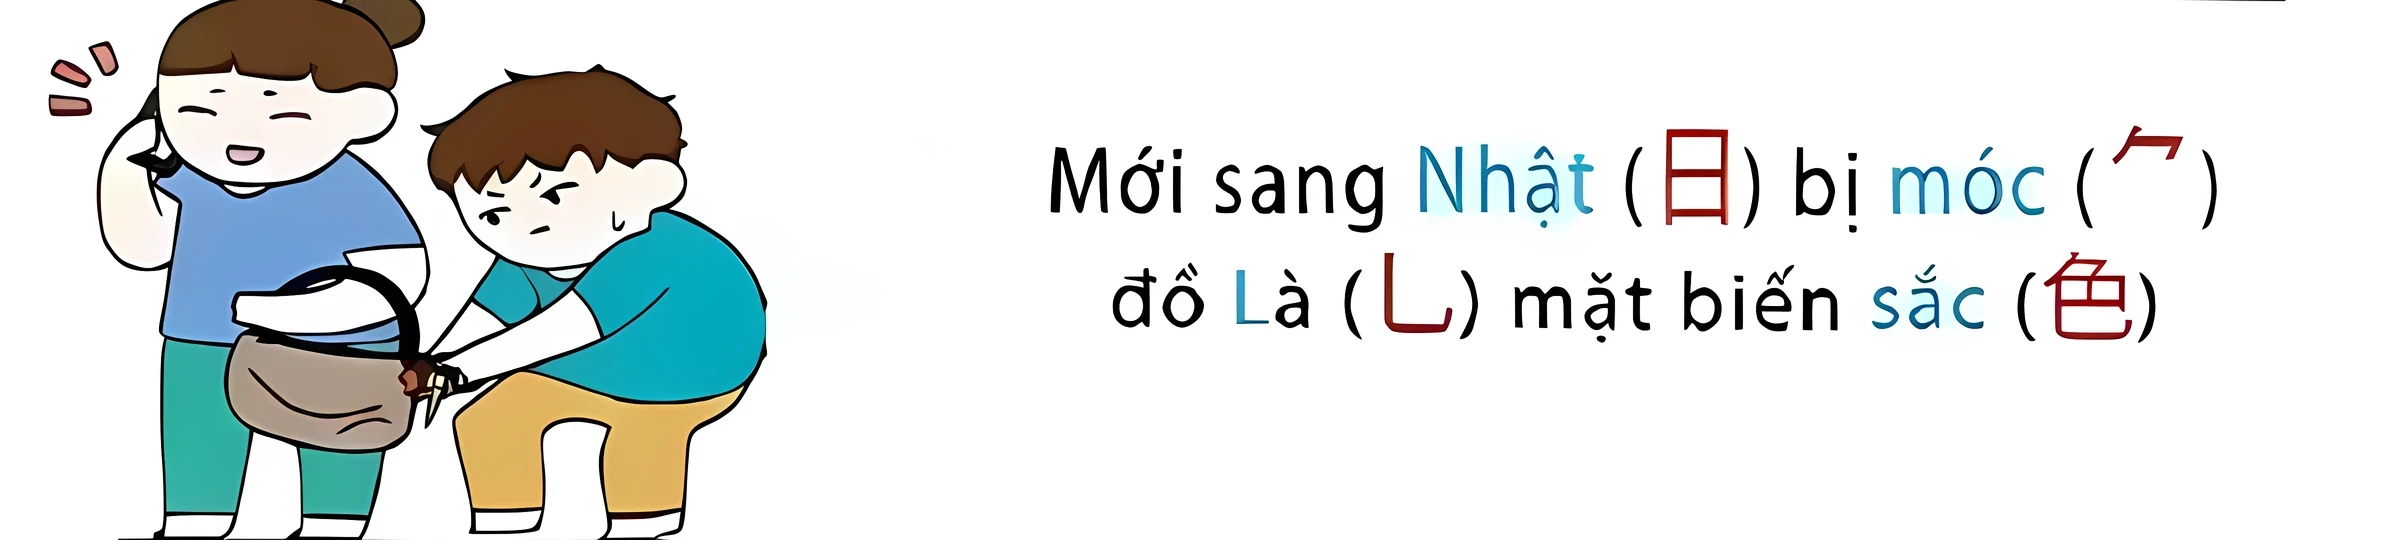
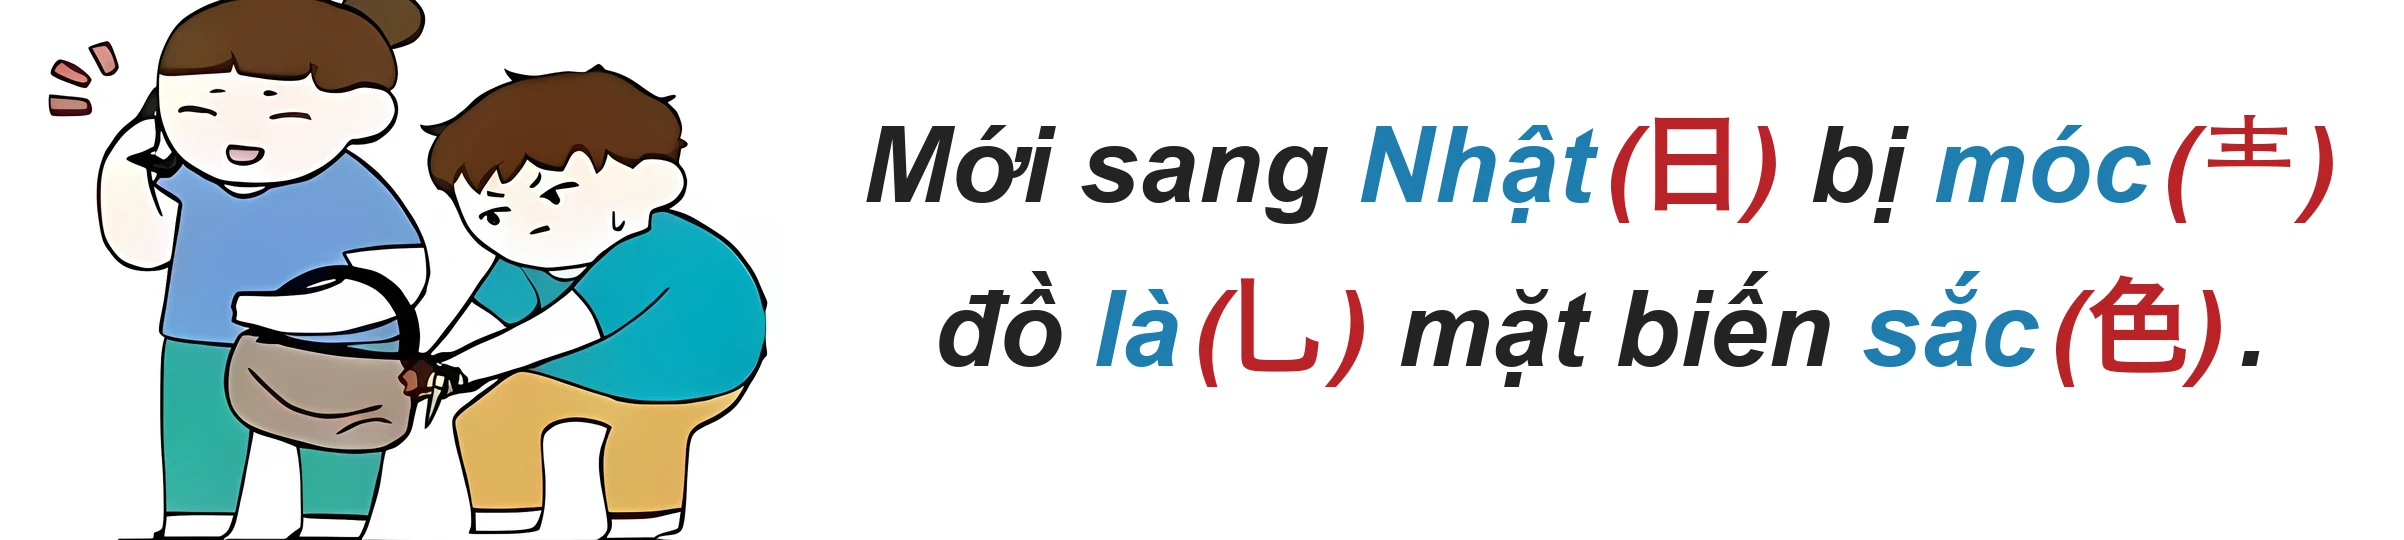
Ảnh câu chuyện: vẽ lại 12 thẻ còn chữ cũ (ký tự 𠀐 thay bằng 龶); thêm tools/ext_kanji_hd.py

Changed region(s): [[0.3432, 0.2074, 0.9983, 0.4444], [0.3744, 0.4741, 0.9359, 0.7111]]

diff --git a/tools/ext_kanji_hd.py b/tools/ext_kanji_hd.py
@@ -1,0 +1,21 @@
+#!/usr/bin/env python3
+"""Thay ảnh thẻ kanji của Chrome extension (images/kanji/<HEX>.jpg) bằng ảnh nét hơn
+lấy từ docs/kanji-viewer/kanji_p1|p2 (1568px), ghép theo số thẻ trong kanji-game-data.js.
+Dùng: python3 tools/ext_kanji_hd.py <thư mục extension> [--width 1100] [--quality 82]"""
+import argparse, json, os
+from PIL import Image
+ap=argparse.ArgumentParser(); ap.add_argument('ext'); ap.add_argument('--width',type=int,default=1100); ap.add_argument('--quality',type=int,default=82)
+a=ap.parse_args()
+V=os.path.join(os.path.dirname(os.path.dirname(os.path.abspath(__file__))),'docs','kanji-viewer')
+s=open(os.path.join(V,'kanji-game-data.js'),encoding='utf8').read()
+arr,_=json.JSONDecoder().raw_decode(s[s.index('window.KANJI=')+13:])
+by={r[1]:r[6] for r in arr if r[6]}
+d=os.path.join(a.ext,'images','kanji'); ok=miss=0
+for f in sorted(os.listdir(d)):
+    if not f.endswith('.jpg'): continue
+    ch=chr(int(f[:-4],16)); p=by.get(ch)
+    if not p or not os.path.exists(os.path.join(V,p)): miss+=1; print('thiếu',ch,f); continue
+    im=Image.open(os.path.join(V,p)).convert('RGB')
+    if im.width>a.width: im=im.resize((a.width,round(im.height*a.width/im.width)),Image.LANCZOS)
+    im.save(os.path.join(d,f),'JPEG',quality=a.quality,optimize=True); ok+=1
+print('đã thay',ok,'thiếu',miss)

diff --git a/tools/kanji_story_redraw.py b/tools/kanji_story_redraw.py
@@ -158,7 +158,12 @@ def draw_story(canvas, story, x0, x1, H):
         y += sz * 1.55
 
 
+SUBST = {"\U00020010": "\u9fb6"}   # 𠀐 (không font nào có) -> 龶 (cùng hình)
+
+
 def render(n, story):
+    for a, b in SUBST.items():
+        story = story.replace(a, b)
     src = UP / f"{n:04d}.webp"
     im = Image.open(src).convert("RGB")
     W, H = im.size
